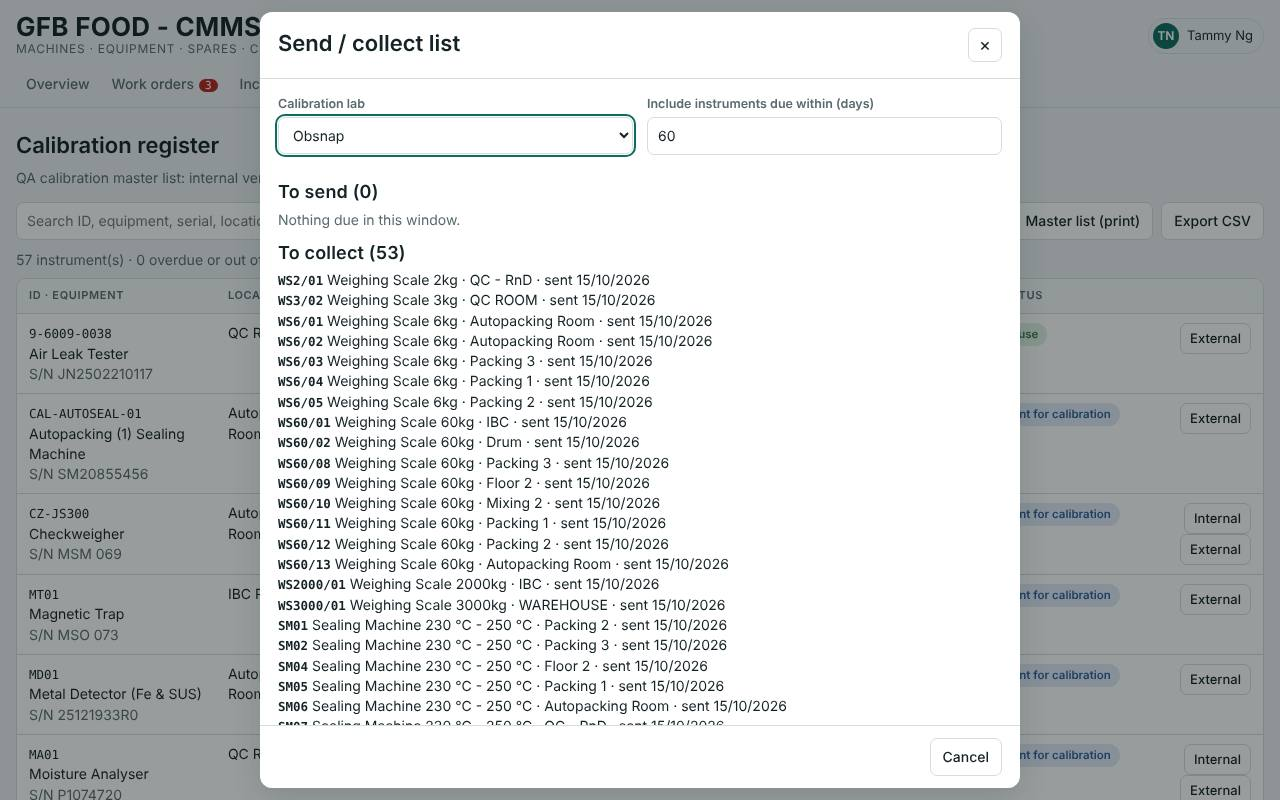
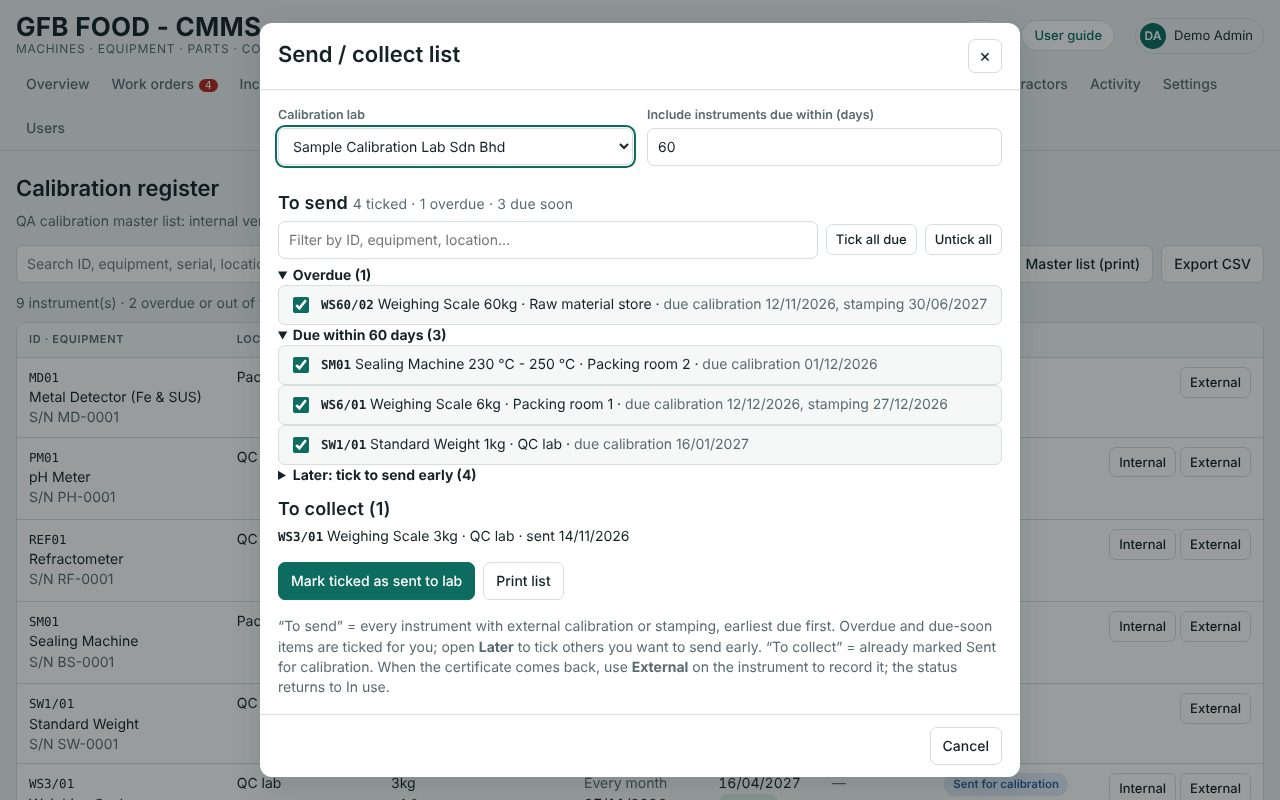
User guide: retake all 26 screenshots from the current version using made-up demo data (no real assets, suppliers, people or purchases); remove supplier name from guide text
Claude-Session: https://claude.ai/code/session_01NoRVR1wM8eAxb4XYRjiJM6

diff --git a/guide.html b/guide.html
@@ -292,7 +292,7 @@ th{background:var(--surface-2);font-weight:600}
   <h3>Send / collect list for the calibration lab</h3>
   <figure><img src="guide/11-cal-lab.jpg" alt="Send / collect list" loading="lazy"><figcaption><span class="ui">Send / collect list</span>: instruments due for the lab, and those already sent.</figcaption></figure>
   <ol>
-    <li>Click <span class="ui">Send / collect list</span>, choose the lab (e.g. Obsnap) and how many days ahead to include.</li>
+    <li>Click <span class="ui">Send / collect list</span>, choose the calibration lab and how many days ahead to include.</li>
     <li>Untick anything not going this round, then <span class="ui">Print list</span> ("TO COLLECT / PASS TO OBSNAP") for the lab's driver.</li>
     <li>Click <span class="ui">Mark ticked as sent to lab</span>. Those instruments show <span class="pill info">Sent for calibration</span>.</li>
     <li>When certificates come back, record each one with <span class="ui">External</span>. The status returns to <span class="pill ok">In use</span>.</li>
